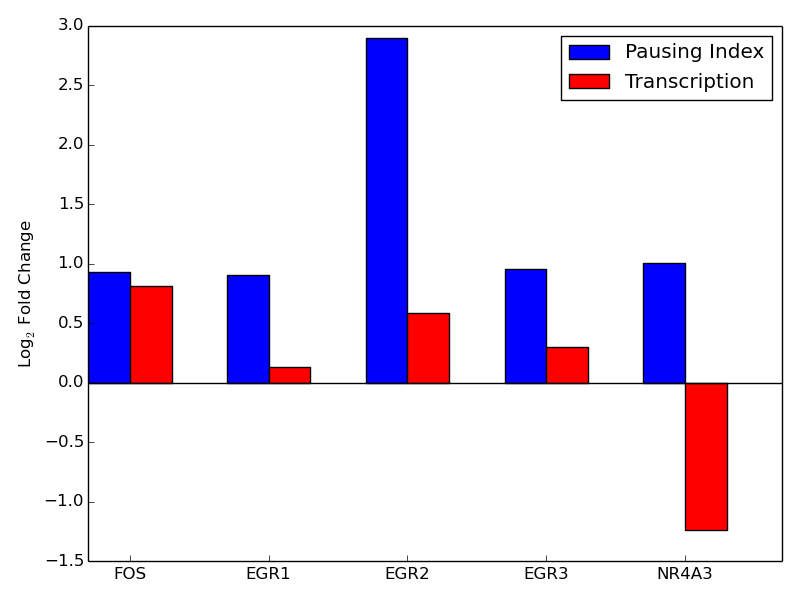
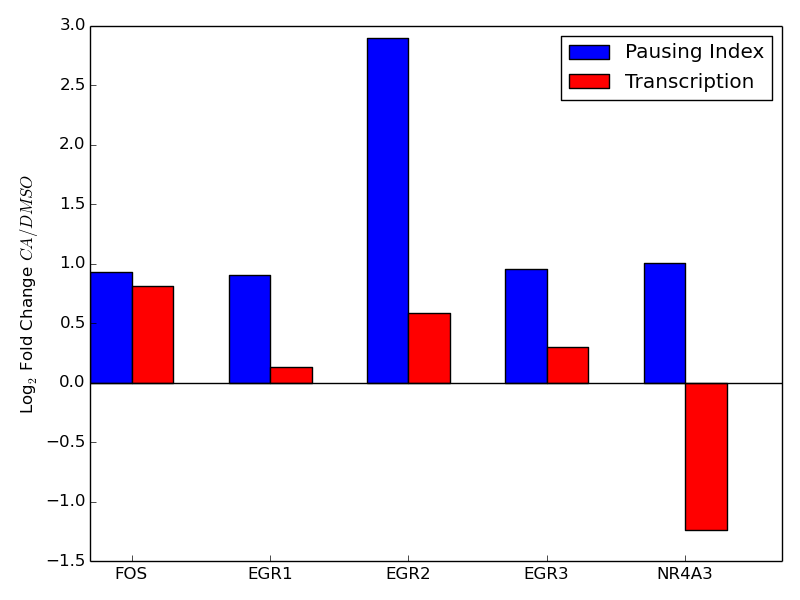
updates

diff --git a/src/master_writer.py b/src/master_writer.py
@@ -433,7 +433,7 @@ def run(DMSOgenes,DMSOTSS,DMSOEND,CAgenes,CATSS,CAEND,filedir,figuredir):
     Txn = ax1.bar(ind+width,Txnbarplotsorted,width,color='r')
     ax1.plot(ax1.get_xlim(),[0,0],color = 'k')
     ax1.legend((PI,Txn),('Pausing Index','Transcription'))
-    ax1.set_ylabel('Log$_2$ Fold Change $CA/DMSO$')
+    ax1.set_ylabel('Log$_2$ Fold Change (CA/DMSO)')
     ax1.set_xticks(ind + width)
     ax1.set_xticklabels(order)
     ax1.get_xaxis().tick_bottom()
@@ -461,13 +461,13 @@ def run(DMSOgenes,DMSOTSS,DMSOEND,CAgenes,CATSS,CAEND,filedir,figuredir):
     ax.scatter(pX2,pY2,c=z,edgecolor="",s=14)
     ax.get_xaxis().tick_bottom()
     ax.get_yaxis().tick_left()
-    #ax.set_xlim([0, 1000])
-    #ax.set_ylim([0, 1000])
+    ax.set_xlim([0, 700])
+    ax.set_ylim([0, 700])
     ax.set_title('Gene Transcription')
     ax.set_xlabel('DMSO')
     ax.set_ylabel('CA')
-    #ax.plot([0,50000.0],[0,50000.0],color='k')
-    ax.text(750,700, "Pearson = " + str(pearsons)[0:5])
+    ax.plot([0,50000.0],[0,50000.0],color='k')
+    ax.text(600,500, "Pearson = " + str(pearsons)[0:5])
     plt.savefig(figuredir + '/Transcription_UPGenes.png')
     
     
